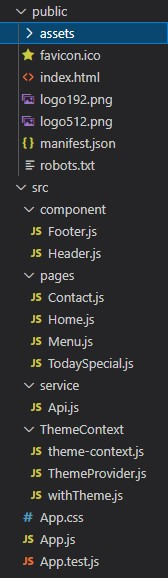
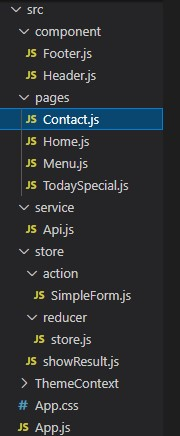
Update 8.md

Changed region(s): [[0.0, 0.0, 1.0, 1.0], [0.119, 0.5665, 0.1488, 0.5963]]

diff --git a/src/08_UTS/src/store/action/SimpleForm.js b/src/08_UTS/src/store/action/SimpleForm.js
@@ -1,0 +1,66 @@
+import React from 'react';
+import { Field, reduxForm } from 'redux-form';
+
+const SimpleForm = props => {
+    const { handleSubmit, pristine, reset, submitting } = props;
+    return (
+        <form onSubmit={handleSubmit}>
+            <div>
+                <div class="form-group">
+                    <Field
+                        id="contact-name"
+                        class="form-control"
+                        name="name"
+                        component="input"
+                        type="text"
+                        placeholder="Name"
+                    />
+                </div>
+            </div>
+            <div>
+                <div class="form-group">
+                    <Field
+                        id="contact-email"
+                        class="form-control"
+                        name="email"
+                        component="input"
+                        type="email"
+                        placeholder="Email"
+                    />
+                </div>
+            </div>
+            <div>
+                <div class="form-group">
+                    <Field
+                        id="contact-subject"
+                        class="form-control"
+                        name="subject"
+                        component="input"
+                        type="text"
+                        placeholder="Subject"
+                    />
+                </div>
+            </div>
+            <div>
+                <div class="form-group">
+                    <Field
+                        id="contact-message"
+                        class="form-control"
+                        name="message"
+                        component="textarea"
+                        rows="6"
+                        type="text"
+                        placeholder="Message"
+                    />
+                </div>
+            </div>
+            <div class="form-group">
+                <button class="tm-more-button" name="submit" type="submit" disabled={pristine || submitting}>Send message</button>
+            </div>
+        </form>
+    );
+};
+
+export default reduxForm({
+    form: 'simple', // a unique identifier for this form
+})(SimpleForm);

diff --git a/src/08_UTS/src/pages/Contact.js b/src/08_UTS/src/pages/Contact.js
@@ -1,5 +1,8 @@
 import React, { Component } from 'react';
-import { Link } from 'react-router-dom';
+import { Provider } from "react-redux";
+import store from "../store/reducer/store";
+import showResults from "../store/showResult";
+import SimpleForm from "../store/action/SimpleForm";
 
 class Contact extends React.Component {
     render() {
@@ -28,21 +31,11 @@ class Contact extends React.Component {
                             <h2 class="col-lg-12 margin-bottom-30">Send us a message</h2>
                             <form action="#" method="post" class="tm-contact-form">
                                 <div class="col-lg-6 col-md-6">
-                                    <div class="form-group">
-                                        <input type="text" id="contact_name" class="form-control" placeholder="NAME" />
+                                <Provider store={store}>
+                                    <div style={{ padding: 15 }}>
+                                        <SimpleForm onSubmit={showResults} />
                                     </div>
-                                    <div class="form-group">
-                                        <input type="email" id="contact_email" class="form-control" placeholder="EMAIL" />
-                                    </div>
-                                    <div class="form-group">
-                                        <input type="text" id="contact_subject" class="form-control" placeholder="SUBJECT" />
-                                    </div>
-                                    <div class="form-group">
-                                        <textarea id="contact_message" class="form-control" rows="6" placeholder="MESSAGE"></textarea>
-                                    </div>
-                                    <div class="form-group">
-                                        <button class="tm-more-button" type="submit" name="submit">Send message</button>
-                                    </div>
+                                </Provider>
                                 </div>
                                 <div class="col-lg-6 col-md-6">
                                     <div id="google-map" class="google-map"></div>

diff --git a/src/08_UTS/src/store/reducer/store.js b/src/08_UTS/src/store/reducer/store.js
@@ -1,0 +1,11 @@
+import { createStore, combineReducers } from 'redux';
+import { reducer as reduxFormReducer } from 'redux-form';
+
+const reducer = combineReducers({
+  form: reduxFormReducer, // mounted under "form"
+});
+const store = (window.devToolsExtension
+  ? window.devToolsExtension()(createStore)
+  : createStore)(reducer);
+
+export default store;

diff --git a/src/08_UTS/src/store/showResult.js b/src/08_UTS/src/store/showResult.js
@@ -1,0 +1,6 @@
+const sleep = ms => new Promise(resolve => setTimeout(resolve, ms));
+
+export default (async function showResults(values) {
+  await sleep(500); // simulate server latency
+  window.alert(`You submitted:\n\n${JSON.stringify(values, null, 2)}`);
+});

diff --git a/src/08_UTS/src/index.js b/src/08_UTS/src/index.js
@@ -2,6 +2,8 @@ import React from 'react';
 import ReactDOM from 'react-dom';
 import App from './App.js';
 
+
+
 ReactDOM.render(
   <React.StrictMode>
     <App />

diff --git a/docs/08_UTS/08.md b/docs/08_UTS/08.md
@@ -110,7 +110,39 @@ proses GET API tidak membutuhkan waktu lebih lama (low latency).
 
 ## 4 - Menggunakan Redux
 
-# Belum Hehe
+1. Pertama-tama Buat 3 file js baru seperti gambar dibawah.
+
+![Screenshot Hasil](img/Redux/1.jpg)
+
+2. Pada SimpleForm.js masukkan code dibawah, ini akan menjadi tampilan inputan form.
+
+![Screenshot Hasil](img/Redux/2.jpg)
+
+![Screenshot Hasil](img/Redux/3.jpg)
+
+3. Kemudian pada store.js masukkan code dibawah.
+
+![Screenshot Hasil](img/Redux/4.jpg)
+
+4. Lalu masukkan code dibawah pada showResult.js.
+
+![Screenshot Hasil](img/Redux/5.jpg)
+
+5. Buka Contact.js lalu lakukan imort seperti gambar dibawah.
+
+![Screenshot Hasil](img/Redux/6.jpg)
+
+6. Terakhir ganti form asli pada contact.js dengan code dibawah.
+
+![Screenshot Hasil](img/Redux/7.jpg)
+
+7. Hasil akhir.
+
+![Screenshot Hasil](img/Redux/8.jpg)
+
+![Screenshot Hasil](img/Redux/9.jpg)
+
+![Screenshot Hasil](img/Redux/10.jpg)
 
 ## 5 - React Project Structure Best Practices for Scalable Application
 https://dev.to/syakirurahman/react-project-structure-best-practices-for-scalable-application-18kk
